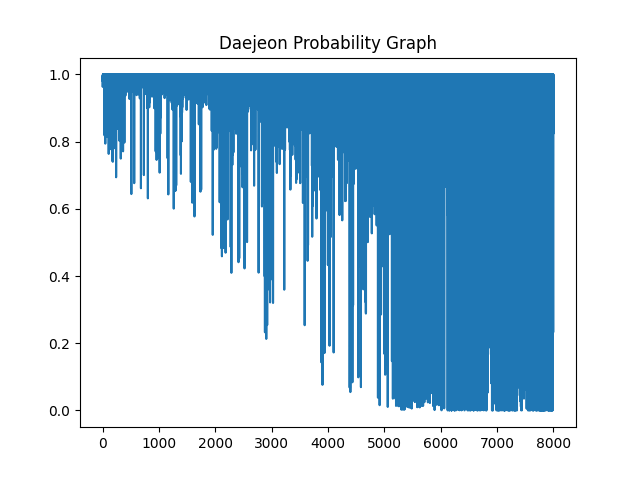
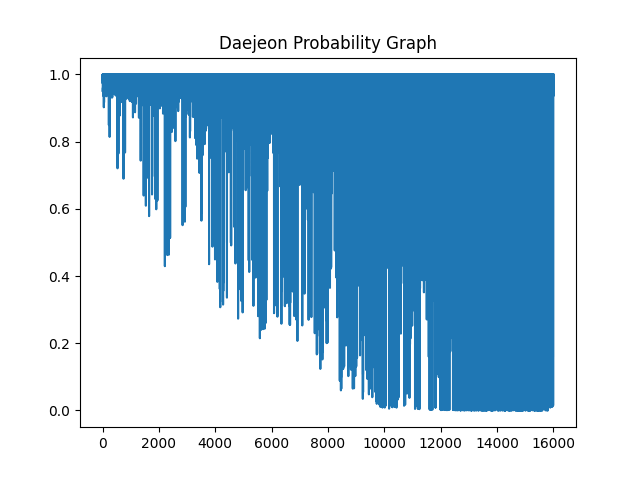
Minor fixes.

diff --git a/Daejeon_node_dictionary_generator.py b/Daejeon_node_dictionary_generator.py
@@ -5,6 +5,7 @@ import pandas as pd
 
 partition_number = 7
 region_name = 'Daejeon'
+iter_per_epoch = 200#100
 
 Dict_format = dict(
     {'name': 'default', 'id': 0, 'pop': 0, 'total_votes': 0, 'party_1': 0, 'party_2': 0, 'color': 'white'})
@@ -82,15 +83,15 @@ Graph_attribute_dict = {id_list[i]: attribute_list[i] for i in range(len(id_list
 
 nx.set_node_attributes(G,Graph_attribute_dict)
 nx.draw(G)
-plt.savefig('Daejeon_initial_graph.png')
-
+plt.savefig(region_name+'_initial_graph.png')
+plt.close()
 # print('Is G planar?\n',nx.is_planar(G))
 
 
 ###Taken from sejong_test.py
 
 init_part = alt_gen_init_part(G, partition_number)
-result_list, log_list = graph_simulated_annealing(G, init_part, 100, False)
+result_list, log_list = graph_simulated_annealing(G, init_part, iter_per_epoch, False)
 compare_before_after_graph_anneal(G, init_part,result_list)
 
 score_history_list = log_list[0]
@@ -142,13 +143,36 @@ nx.draw(G, node_color=[color_state_map[node[1][Dict_Trait.color]] for node in G.
 plt.savefig(region_name+'_test_init_part_graph.png')
 plt.close()
 
-'''
-current_boundary_Sejong_A = [3611010600,3611011400, 3611010800,3611010400,3611010200,3611033000, 3611034000,3611035000]
-current_boundary_Sejong_B = [3611010100, 3611031000, 3611032000, 3611010300, 3611011200, 3611011600, 3611036000, 3611025000, 3611010900, 3611011100, 3611011300, 3611038000, 3611037000, 3611039000]
-current_boundary = [current_boundary_Sejong_A,current_boundary_Sejong_B]
-min_part =[[3611010400, 3611010800, 3611011400, 3611025000, 3611032000, 3611033000,
- 3611034000, 3611035000, 3611036000, 3611037000, 3611038000, 3611039000],[3611010100, 3611010200, 3611010300, 3611010600, 3611010900, 3611011100,
- 3611011200, 3611011300, 3611011600, 3611031000]]
+
+current_boundary_1 = [3011051500, 3011054500, 3011053000, 3011055100, 3011055200, 3011056000, 3011058500, 3011059000, 3011062000, 3011063000, 3011064000, 3011066500, 3011067000, 3011069500, 3011072500, 3011074000  ]
+current_boundary_2 = [3014053500, 3014055000, 3014056000, 3014057500, 3014060500, 3014062000, 3014063000, 3014064000, 3014065500, 3014067000, 3014068000, 3014069000, 3014070000, 3014071000, 3014072000, 3014073000, 3014074000  ]
+current_boundary_3 = [3017051000, 3017052000, 3017053000, 3017053500, 3017054000, 3017056000, 3017057000, 3017057500, 3017059000, 3017059600, 3017059700, 3017060000  ]
+current_boundary_4 = [3017055000, 3017055500, 3017063000, 3017064000, 3017066000, 3017058100, 3017058200, 3017058600, 3017058700, 3017058800, 3017065000  ]
+current_boundary_5 = [3020052000, 3020061000, 3020053000, 3020054000, 3020054600  ]
+current_boundary_6 = [3020054700, 3020054800, 3020055000, 3020057000, 3020058000, 3020060000  ]
+current_boundary_7 = [3023051000, 3023052000, 3023052500, 3023053300, 3023054300, 3023054600, 3023060000, 3023061000, 3023055000, 3023056000, 3023057000, 3023058000  ]
+
+
+
+current_boundary = [current_boundary_1,current_boundary_2, current_boundary_3,current_boundary_4,current_boundary_5,current_boundary_6,current_boundary_7]
+min_part =[
+              [3017058200, 3017058700, 3017063000, 3017064000, 3017065000, 3020054000,
+ 3020055000, 3023052000, 3023060000],
+              [3017058600 ,3017059600, 3017060000, 3020052000 ,3020053000 ,3020054600,
+ 3020054700, 3020054800, 3020061000],
+              [3014069000 ,3014070000 ,3014073000 ,3017051000 ,3017052000 ,3017053000,
+ 3017054000, 3017055000, 3017057000, 3017057500, 3017058100, 3017058800],
+              [3011053000 ,3011055100 ,3011074000, 3014060500, 3014074000, 3017053500,
+ 3017059000 ,3017059700],
+              [3011051500 ,3011054500 ,3011058500 ,3011059000, 3011063000, 3011064000,
+ 3011066500, 3011067000, 3014053500, 3014057500, 3014062000, 3014063000,
+ 3014064000, 3023054300 ,3023054600],
+          [3011055200 ,3011056000 ,3011072500, 3020057000 ,3020058000, 3020060000,
+ 3023052500 ,3023053300 ,3023055000 ,3023056000 ,3023057000, 3023058000,
+ 3023061000],
+          [3011062000 ,3011069500, 3014055000, 3014056000, 3014065500, 3014067000,
+ 3014068000 ,3014071000 ,3014072000, 3017055500 ,3017056000, 3017066000,
+ 3023051000]]
 compare_before_after_graph_anneal(G, current_boundary,min_part)
 
 #min partition color
@@ -160,4 +184,3 @@ for i in G.nodes():
 nx.draw(G, node_color=[color_state_map[node[1][Dict_Trait.color]] for node in G.nodes(data=True)], with_labels=True)
 plt.savefig(region_name+'_test_min_part_graph.png')
 plt.close()
-'''
